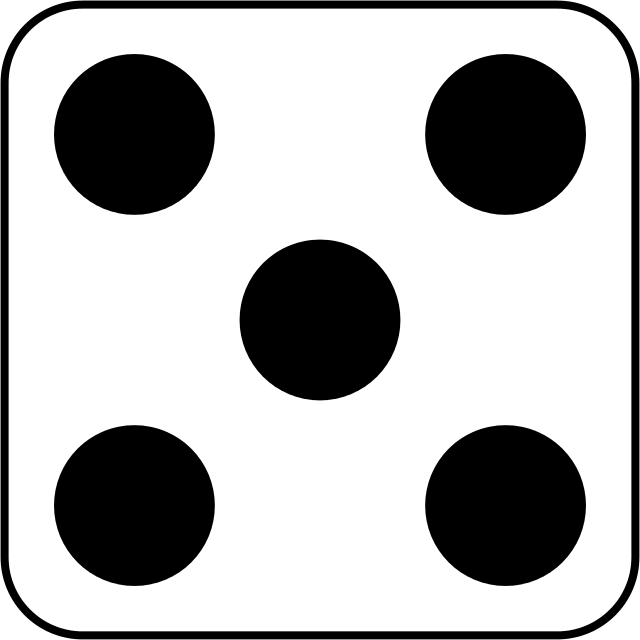
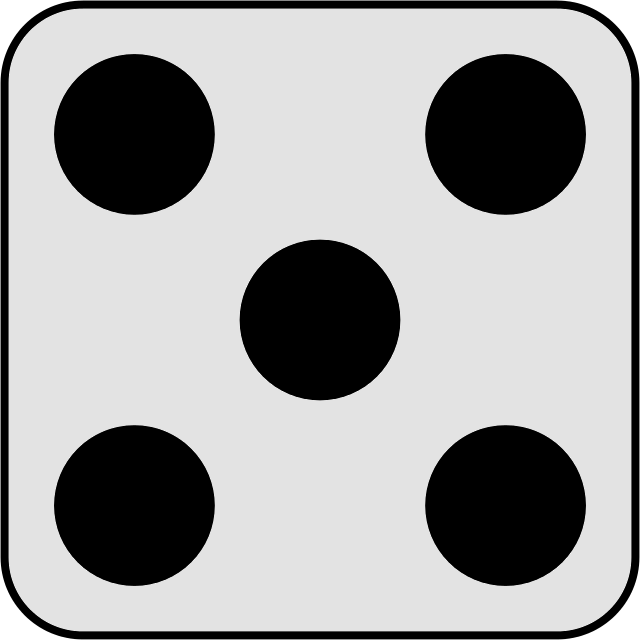
Some small changes to the style

diff --git a/mobile.html b/mobile.html
@@ -3,7 +3,7 @@
   <head>
     <meta charset="utf-8">
     <title>Farkle mobile version</title>
-    <link rel="stylesheet" href="style.css">
+    <link rel="stylesheet" href="style-mobile.css">
     <script>
       if (!/Android|webOS|iPhone|iPad|iPod|BlackBerry|BB|PlayBook|IEMobile|Windows Phone|Kindle|Silk|Opera Mini|Mobile/i.test(navigator.userAgent)) {
           // Take the user to a different screen here.
@@ -21,152 +21,149 @@
       </div>
     </div>
 
-    <div class="wrapper2">
-      <!-- Left Panel -->
-      <div class="box panel">
-        <div class="sub-wrapper">
-          <button class="sidebar-button" id="roll-button" type="button">
-            Roll
-          </button>
-          <button class="sidebar-button2" id="roll-prev-button" type="button">
-            Roll prev.
-          </button>
-        </div>
-        <button class="sidebar-button" id="bank-button" type="button">
-          Bank
+    <!-- Left Panel -->
+    <div class="box panel">
+      <div class="sub-wrapper">
+        <button class="sidebar-button" id="roll-button" type="button">
+          Roll
         </button>
-        <p id="round-score">score if banked: 0</p>
-        <hr>
-        <div class="row" id="row1">
-          <div class="row-dice">
-            <button class="row-dice" id="row1-b-1"></button>
-            <img class="row-dice" id="row1-img-1" src="images/dice-1-640px.png" />
-          </div>
-          <div class="row-dice">
-            <button class="row-dice" id="row1-b-2"></button>
-            <img class="row-dice" id="row1-img-2" src="images/dice-2-640px.png" />
-          </div>
-          <div class="row-dice">
-            <button class="row-dice" id="row1-b-3"></button>
-            <img class="row-dice" id="row1-img-3" src="images/dice-3-640px.png" />
-          </div>
-          <div class="row-dice">
-            <button class="row-dice" id="row1-b-4"></button>
-            <img class="row-dice" id="row1-img-4" src="images/dice-4-640px.png" />
-          </div>
-          <div class="row-dice">
-            <button class="row-dice" id="row1-b-5"></button>
-            <img class="row-dice" id="row1-img-5" src="images/dice-5-640px.png" />
-          </div>
-          <div class="row-dice">
-            <button class="row-dice" id="row1-b-6"></button>
-            <img class="row-dice" id="row1-img-6" src="images/dice-6-640px.png" />
-          </div>
+        <button class="sidebar-button2" id="roll-prev-button" type="button">
+          Roll prev.
+        </button>
+      </div>
+      <button class="sidebar-button" id="bank-button" type="button">
+        Bank
+      </button>
+      <p id="round-score">score if banked: 0</p>
+      <hr>
+      <div class="row" id="row1">
+        <div class="row-dice">
+          <button class="row-dice" id="row1-b-1"></button>
+          <img class="row-dice" id="row1-img-1" src="images/dice-1-640px.png" />
         </div>
-        <hr>
-        <div class="row" id="row2">
-          <div class="row-dice">
-            <button class="row-dice" id="row2-b-1"></button>
-            <img class="row-dice" id="row2-img-1" src="images/dice-1-640px.png" />
-          </div>
-          <div class="row-dice">
-            <button class="row-dice" id="row2-b-2"></button>
-            <img class="row-dice" id="row2-img-2" src="images/dice-2-640px.png" />
-          </div>
-          <div class="row-dice">
-            <button class="row-dice" id="row2-b-3"></button>
-            <img class="row-dice" id="row2-img-3" src="images/dice-3-640px.png" />
-          </div>
-          <div class="row-dice">
-            <button class="row-dice" id="row2-b-4"></button>
-            <img class="row-dice" id="row2-img-4" src="images/dice-4-640px.png" />
-          </div>
-          <div class="row-dice">
-            <button class="row-dice" id="row2-b-5"></button>
-            <img class="row-dice" id="row2-img-5" src="images/dice-5-640px.png" />
-          </div>
-          <div class="row-dice">
-            <button class="row-dice" id="row2-b-6"></button>
-            <img class="row-dice" id="row2-img-6" src="images/dice-6-640px.png" />
-          </div>
+        <div class="row-dice">
+          <button class="row-dice" id="row1-b-2"></button>
+          <img class="row-dice" id="row1-img-2" src="images/dice-2-640px.png" />
         </div>
-        <p id="row2-score">0</p>
-        <hr>
-        <h5 class=legend-header>Combinations:</h5>
-        <div class="sub-wrapper-legend">
-          <p class="legend">Farkle = 0      </p>
-          <p class="legend">1 = 100  </p>
-          <p class="legend">1-1-1 = 1000</p>
-          <p class="legend">5 = 50    </p>
-          <p class="legend">2-2-2 = 200  </p>
-          <p class="legend">Four-of-a-kind = 1000</p>
-          <p class="legend">3-3-3 = 300  </p>
-          <p class="legend">Five-of-a-kind = 2000</p>
-          <p class="legend">4-4-4 = 400  </p>
-          <p class="legend">Six-of-a-kind = 3000</p>
-          <p class="legend">5-5-5 = 500  </p>
-          <p class="legend">Straight = 1500</p>
-          <p class="legend">6-6-6 = 600  </p>
-          <p class="legend">Three pairs = 1500</p>
-          <p class="legend">Two triplets = 2500</p>
-          <p class="legend">Four-of-a-kind+pair = 1500</p>
+        <div class="row-dice">
+          <button class="row-dice" id="row1-b-3"></button>
+          <img class="row-dice" id="row1-img-3" src="images/dice-3-640px.png" />
+        </div>
+        <div class="row-dice">
+          <button class="row-dice" id="row1-b-4"></button>
+          <img class="row-dice" id="row1-img-4" src="images/dice-4-640px.png" />
+        </div>
+        <div class="row-dice">
+          <button class="row-dice" id="row1-b-5"></button>
+          <img class="row-dice" id="row1-img-5" src="images/dice-5-640px.png" />
+        </div>
+        <div class="row-dice">
+          <button class="row-dice" id="row1-b-6"></button>
+          <img class="row-dice" id="row1-img-6" src="images/dice-6-640px.png" />
         </div>
       </div>
-
-      <!-- Play Area -->
-      <div class="box play-area">
-        <p id="play-text">Click the roll button to start!</p>
-        <p id="notifications"> </p>
-        <div class="wrapper-play-dice">
-          <div class="play-dice">
-            <button class="play-dice" id="play-b-1"></button>
-            <img class="play-dice" id="die1" src="images/dice-1-640px.png" />
-          </div>
-          <div class="play-dice">
-            <button class="play-dice" id="play-b-2"></button>
-            <img class="play-dice" id="die2" src="images/dice-2-640px.png" />
-          </div>
-          <div class="play-dice">
-            <button class="play-dice" id="play-b-3"></button>
-            <img class="play-dice" id="die3" src="images/dice-3-640px.png" />
-          </div>
-          <div class="play-dice">
-            <button class="play-dice" id="play-b-4"></button>
-            <img class="play-dice" id="die4" src="images/dice-4-640px.png" />
-          </div>
-          <div class="play-dice">
-            <button class="play-dice" id="play-b-5"></button>
-            <img class="play-dice" id="die5" src="images/dice-5-640px.png" />
-          </div>
-          <div class="play-dice">
-            <button class="play-dice" id="play-b-6"></button>
-            <img class="play-dice" id="die6" src="images/dice-6-640px.png" />
-          </div>
+      <hr>
+      <div class="row" id="row2">
+        <div class="row-dice">
+          <button class="row-dice" id="row2-b-1"></button>
+          <img class="row-dice" id="row2-img-1" src="images/dice-1-640px.png" />
+        </div>
+        <div class="row-dice">
+          <button class="row-dice" id="row2-b-2"></button>
+          <img class="row-dice" id="row2-img-2" src="images/dice-2-640px.png" />
+        </div>
+        <div class="row-dice">
+          <button class="row-dice" id="row2-b-3"></button>
+          <img class="row-dice" id="row2-img-3" src="images/dice-3-640px.png" />
+        </div>
+        <div class="row-dice">
+          <button class="row-dice" id="row2-b-4"></button>
+          <img class="row-dice" id="row2-img-4" src="images/dice-4-640px.png" />
+        </div>
+        <div class="row-dice">
+          <button class="row-dice" id="row2-b-5"></button>
+          <img class="row-dice" id="row2-img-5" src="images/dice-5-640px.png" />
+        </div>
+        <div class="row-dice">
+          <button class="row-dice" id="row2-b-6"></button>
+          <img class="row-dice" id="row2-img-6" src="images/dice-6-640px.png" />
         </div>
       </div>
+      <p id="row2-score">0</p>
+      <hr>
+      <h5 class=legend-header>Combinations:</h5>
+      <div class="sub-wrapper-legend">
+        <p class="legend">Farkle = 0      </p>
+        <p class="legend">1 = 100  </p>
+        <p class="legend">1-1-1 = 1000</p>
+        <p class="legend">5 = 50    </p>
+        <p class="legend">2-2-2 = 200  </p>
+        <p class="legend">Four-of-a-kind = 1000</p>
+        <p class="legend">3-3-3 = 300  </p>
+        <p class="legend">Five-of-a-kind = 2000</p>
+        <p class="legend">4-4-4 = 400  </p>
+        <p class="legend">Six-of-a-kind = 3000</p>
+        <p class="legend">5-5-5 = 500  </p>
+        <p class="legend">Straight = 1500</p>
+        <p class="legend">6-6-6 = 600  </p>
+        <p class="legend">Three pairs = 1500</p>
+        <p class="legend">Two triplets = 2500</p>
+        <p class="legend">Four-of-a-kind+pair = 1500</p>
+      </div>
+    </div>
 
-      <div class="box rules">
-        <h1>Farkle Instructions</h1>
-        <hr>
-        <ul class="rules-list">
-          <li><strong>Summary:</strong> Farkle is a dice game where you weigh your odds and try to get more points than the other players. This website is designed to be played "hot-seat" locally with your friends!</li>
-          <li><strong>Objective:</strong> Be the first player to get 10,000 points.</li>
-          <li><strong>On your turn:</strong> Start by clicking the roll button to roll the dice.</li>
-          <ul>
-            <li>Dice score points depending on what combinations they make.</li>
-            <li>You may set aside dice that are a part of combinations by clicking on them.</li>
-            <li>Only dice that were rolled together can be a part of the same combination.</li>
-            <li>When you have dice set aside, you may either roll again with the remaining dice to improve your score or you can "bank" your score to end your turn and add the score this turn to your total score.</li>
-            <li>You must set aside at least one die to bank or roll again.</li>
-            <li>If you roll and there are no combinations, you "farkled". Your turn ends and you lose all your points for this turn.</li>
-          </ul>
-          <li><strong>Hot Dice:</strong> After you roll, if all remaining dice are part of a combination, you may continue rolling with six dice.</li>
-          <li><strong>Roll Previous:</strong> If the player before you banked their score, you have the option to start your turn with the score they banked and with the dice they had remaining.</li>
-          <li><strong>Last chance:</strong> After the first person reaches 10,000 points and banks their score, each other player has one turn to try and end the game with the highest score.</li>
+    <!-- Play Area -->
+    <div class="box play-area">
+      <p id="play-text">Click the roll button to start!</p>
+      <p id="notifications"> </p>
+      <div class="wrapper-play-dice">
+        <div class="play-dice">
+          <button class="play-dice" id="play-b-1"></button>
+          <img class="play-dice" id="die1" src="images/dice-1-640px.png" />
+        </div>
+        <div class="play-dice">
+          <button class="play-dice" id="play-b-2"></button>
+          <img class="play-dice" id="die2" src="images/dice-2-640px.png" />
+        </div>
+        <div class="play-dice">
+          <button class="play-dice" id="play-b-3"></button>
+          <img class="play-dice" id="die3" src="images/dice-3-640px.png" />
+        </div>
+        <div class="play-dice">
+          <button class="play-dice" id="play-b-4"></button>
+          <img class="play-dice" id="die4" src="images/dice-4-640px.png" />
+        </div>
+        <div class="play-dice">
+          <button class="play-dice" id="play-b-5"></button>
+          <img class="play-dice" id="die5" src="images/dice-5-640px.png" />
+        </div>
+        <div class="play-dice">
+          <button class="play-dice" id="play-b-6"></button>
+          <img class="play-dice" id="die6" src="images/dice-6-640px.png" />
+        </div>
+      </div>
+    </div>
+
+    <div class="box rules">
+      <h1>Farkle Instructions</h1>
+      <hr>
+      <ul class="rules-list">
+        <li><strong>Summary:</strong> Farkle is a dice game where you weigh your odds and try to get more points than the other players. This website is designed to be played "hot-seat" locally with your friends!</li>
+        <li><strong>Objective:</strong> Be the first player to get 10,000 points.</li>
+        <li><strong>On your turn:</strong> Start by clicking the roll button to roll the dice.</li>
+        <ul>
+          <li>Dice score points depending on what combinations they make.</li>
+          <li>You may set aside dice that are a part of combinations by clicking on them.</li>
+          <li>Only dice that were rolled together can be a part of the same combination.</li>
+          <li>When you have dice set aside, you may either roll again with the remaining dice to improve your score or you can "bank" your score to end your turn and add the score this turn to your total score.</li>
+          <li>You must set aside at least one die to bank or roll again.</li>
+          <li>If you roll and there are no combinations, you "farkled". Your turn ends and you lose all your points for this turn.</li>
         </ul>
-      </div>
-      <!-- Hints -->
-    </div> <!--end wrapper2-->
+        <li><strong>Hot Dice:</strong> After you roll, if all remaining dice are part of a combination, you may continue rolling with six dice.</li>
+        <li><strong>Roll Previous:</strong> If the player before you banked their score, you have the option to start your turn with the score they banked and with the dice they had remaining.</li>
+        <li><strong>Last chance:</strong> After the first person reaches 10,000 points and banks their score, each other player has one turn to try and end the game with the highest score.</li>
+      </ul>
+    </div>
 
   </body>
 </html>

diff --git a/style-mobile.css b/style-mobile.css
@@ -26,6 +26,7 @@ div.wrapper {
 
 div.wrapper2 {
   display: flex;
+  width: 100%;
 }
 
 .score-card {
@@ -146,8 +147,8 @@ div.row-dice {
 img.row-dice {
   width: 50px;
   height: 50px;
-  background-color: white;
-  border-radius: 6px;
+  /*background-color: white;
+  border-radius: 6px;*/
   margin-left: 5px;
 }
 
@@ -177,20 +178,20 @@ button.row-dice {
 }
 
 .play-area {
-  display: inline;
+  /*display: inline-flex;*/
   margin-top: 50px;
   margin-left: 10px;
-  width: calc(
-    100% - 1050px
-  ); /*1050px is about the width of the panel and the rules plus their padding*/
+  width: 97%;
   min-width: 500px;
   padding: 50px;
   padding-top: 20px;
   padding-right: 10px;
+
+  font-size: 0.7em;
 }
 
 #notifications {
-  min-height: 1.2em;
+  min-height: 7em;
 }
 
 .alert {
@@ -210,8 +211,8 @@ div.wrapper-play-dice {
 .play-area img.play-dice {
   width: 75px;
   height: 75px;
-  background-color: white;
-  border-radius: 10px;
+  /*background-color: white;
+  border-radius: 10px;*/
   margin-top: 20px;
   margin-right: 50px;
   margin-bottom: 20px;
@@ -230,7 +231,7 @@ div.wrapper-play-dice {
 .rules {
   margin-top: 50px;
   margin-left: 10px;
-  width: 600px;
+  width: 97%;
   min-width: 600px;
   padding: 30px;
   padding-top: 20px;
